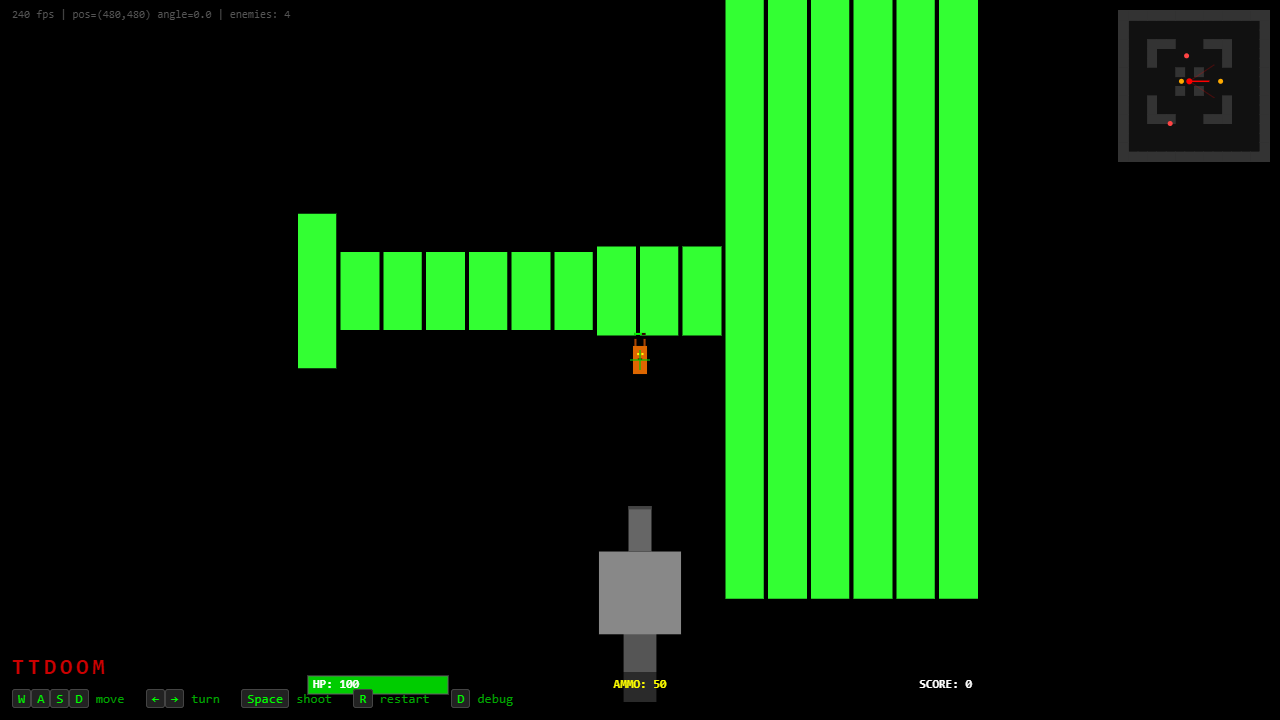
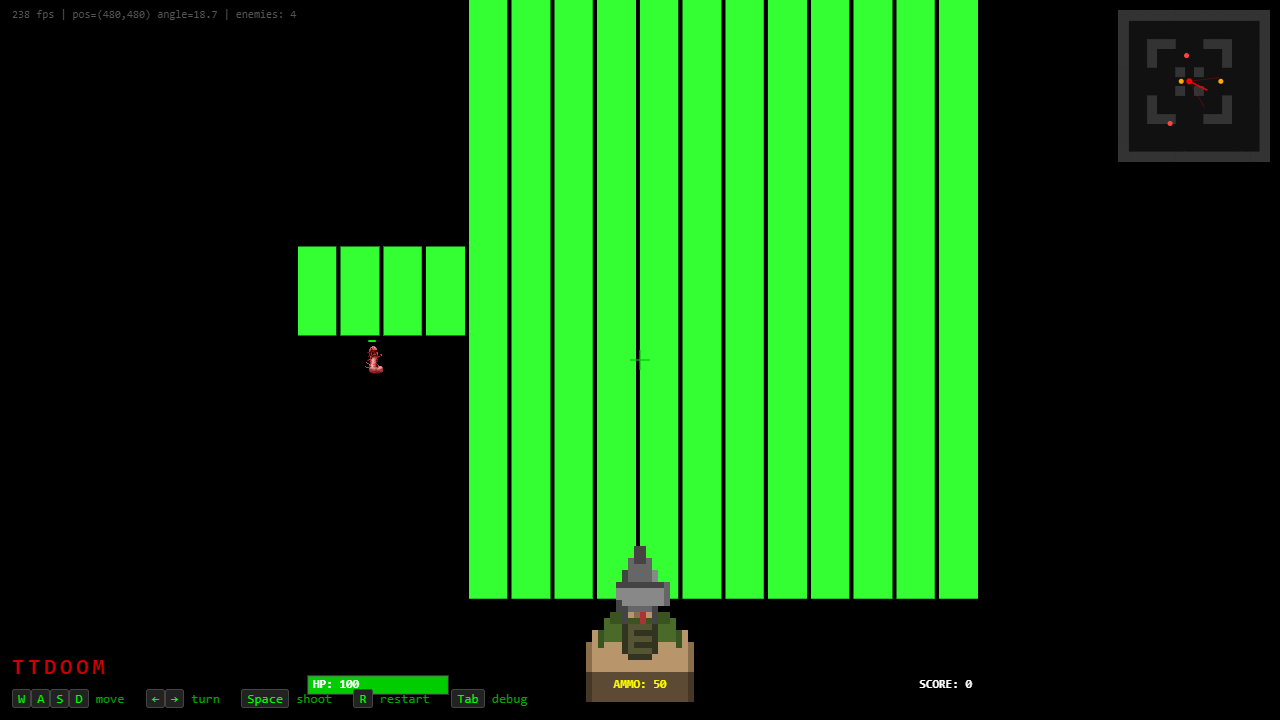
fix: gameplay GIF with enemy visible + shooting, updated screenshots, Tab debug key in README

diff --git a/README.md b/README.md
@@ -26,7 +26,7 @@ The entire rendering engine fits in 6,580 bytes.
 </p>
 
 <p align="center">
-  <em>Debug mode (press D): font variation axes, glyph contour inspector, ray visualization on minimap</em>
+  <em>Debug mode (press Tab): font variation axes, glyph contour inspector, ray visualization on minimap</em>
 </p>
 
 ---
@@ -55,7 +55,7 @@ browser JS (position/angle) → font-variation-settings → GETVARIATION
 
 The font is a pure renderer. JavaScript handles game state, movement, and collision. The canvas overlay adds enemies, weapon, and HUD on top of the font-rendered walls.
 
-Press **D** in the demo to see the debug overlay: live `font-variation-settings` axes, a glyph contour inspector showing all 16 bar heights, and ray lines on the minimap matching the hinting VM's raycasts.
+Press **Tab** in the demo to see the debug overlay: live `font-variation-settings` axes, a glyph contour inspector showing all 16 bar heights, and ray lines on the minimap matching the hinting VM's raycasts.
 
 <p align="center">
   <img src="docs/media/debug-mode.png" alt="Debug mode showing font axes and glyph inspector" width="640" />